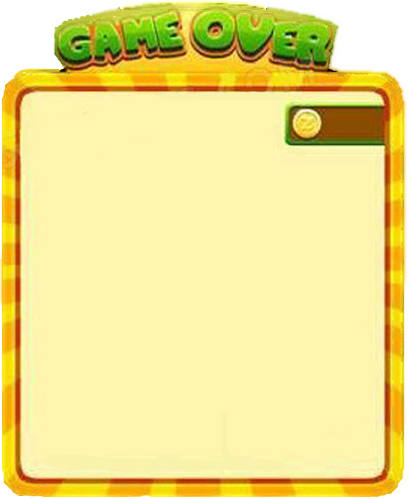
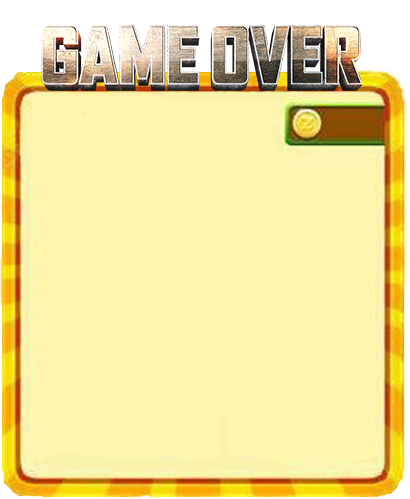
修改小遊戲由楊婷婷觀察

Changed region(s): [[0.0585, 0.0, 0.878, 0.1804]]

diff --git a/src/06_game.html b/src/06_game.html
@@ -19,17 +19,17 @@
 		 <!-- 如果來不及的話用jquery Ajax收發資料帶入角色資料，和timer資料 -->
 		<link rel="stylesheet" href="./css/game.css">
 		<link rel="stylesheet" href="./css/flex.css">
-		<script src="https://cdnjs.cloudflare.com/ajax/libs/vue/2.6.12/vue.js"></script>
+		<!-- <script src="https://cdnjs.cloudflare.com/ajax/libs/vue/2.6.12/vue.js"></script> -->
 		<script src="../node_modules/jquery/dist/jquery.min.js"></script>
 	</head>
 	<body>
 		@@include('layout/nav.html')
 		<div id="title" class="banner"><h1 class="banner-1st-title">小遊戲-茶園保衛戰</h1></div>
-		<div class="w100 flex j_c x-auto">
+		<div class="w100 flex j_c ">
 		<div id="map">
 			<div class="tea_en flex a_c j_c">
-				<section >
-					<article class="flex">
+				<section style="overflow-x: hidden;">
+					<article class="flex" >
 					<div class="teatxt">
 						<h2>目錄</h2>
 						<p>概要：茶文化、茶葉知識、茶具知識、品茶用水、茶藝基礎、科學飲茶</p>
@@ -57,9 +57,7 @@
 			<span style="writing-mode: vertical-lr;
 			font-size: 20px;position:relative;top: 55%;left: 20%;color: #FFF;text-shadow: 0 0 3.2em #87E;">遊戲</span>
 			</div>
-						<div id="teatxt-bar2" style="height: 100px;
-    		width: 50px;    position: relative;
-    		top: 30px;"></div>
+						<div id="teatxt-bar2" style="height: 100px;width: 50px;position: relative;top: 30px;"></div>
 					</div>
 					</article>					
 				</section>
@@ -75,11 +73,9 @@
     	top:120px;">
 		<p style="font-size:28px;color:red;">蟲子跑進了茶園</p>
 <img src="./images/game/200_d.gif" alt="" style="width: 300px;">
-<img src="./images/game/tea_2.png" alt="" style="width: 300px;position: relative;
-    left: 12%;
-    top: -36px;">
+
 	</div>		
-		<div id="return" class="flex a_c"><img src="./images/game/return.png" alt="再玩一次"><span style="font-size:28px;color:red;">再玩一次</span></div>
+		<div id="replay" class="flex a_c" style="cursor: pointer;"><img src="./images/game/return.png" alt="再玩一次" ><span style="font-size:28px;color:red;">再玩一次</span></div>
 </article>
 </div>
 <div class="gamewin">
@@ -99,13 +95,20 @@ font-size: 28px;line-height: 1.5;
 </div>
 <div class="overlay -on">
 	<article>
-			<img src="./images/game/title.png" class="title">
+				<img src="./images/game/game_role.png" class="title">
 			<div style="color:#FFF;padding-left:10px;font-size:18px;border:solid 1px #FFF">
 			<p>遊戲說明：</p>
-			<p>上方控制面板：喝茶休息可以暫停，茶百科可以瀏覽茶的知識、計分板顯示分數。</p>
-			<p>左下方：守衛角色可放置到四條道路上，會發射子彈。</p>
-			<p>右方：有蟲子向進攻，千萬不要放蟲子到茶園裡。</p>
+			<div>開場會有落下茶葉，玩家可以點擊接住茶葉<img src="./images/game/giphy.webp" alt="" style="width:40px;height:40px">
+			</div>
+			<div class="flex">				
+				<span>落下的茶葉收到袋子裡→</span>
+				<img src="./images/game/62720191121071129866.png" alt="">
+				<span>用來購買守衛</span>
+				<img src="./images/game/4.gif" alt="" style="width:40px;height:40px;">
+			</div>
 			<p>茶能量：守衛放置道路上需要能量，能量不足可是請不動守衛的呦。</p>
+			<p>上方控制面板：暫停、繼續，茶百科可以瀏覽茶的知識、計分板顯示分數。</p>
+			<p>右方：有蟲子向進攻，千萬不要放蟲子到茶園裡。</p>			
 			</div>			
 			<div class="button2 flex a_c j_c" id='go' style="appearance: none;"><span style="color:#FFF;" id="gotxt">開始驅蟲</span></div>
 			
@@ -176,7 +179,6 @@ font-size: 28px;line-height: 1.5;
 					time_b_,
 					bb__,
 					zom_,zarr_
-					
 				},
 				motheds:{
 					clearStyle() {

diff --git a/src/sass/game.scss b/src/sass/game.scss
@@ -43,7 +43,7 @@ top:-40px;
 .road{
   position: absolute;
   z-index: 2;
-left:calc(-310px + 40%);
+  left:calc(-310px + 40%);
   background: url(../images/game/8.png);
   width: 755px;
   height: 110px;
@@ -68,7 +68,7 @@ left:calc(-310px + 40%);
 }
 .road .createWorm {
   position: absolute;
-height: 90px;
+  height: 60px;
   width: 66px;
   top: 0px;
   bottom: 0px;
@@ -134,6 +134,13 @@ position: absolute;
 top: 300px;
 left: 50%;
 transform: translate(-50%, -50%);
+img.title{
+	position:relative;
+top:-20px;
+left: calc(94% - 417px);	
+width: 417px;
+height:128px;
+}
 }
 div.gameover,div.gamewin{
   position: fixed;
@@ -260,7 +267,7 @@ div.gamewin>article{
 			/*疆屍*/
 			#road .createWorm {
 				position: absolute;
-				height: 90px;
+				height: 50px;
 				width: 66px;
 				top: 0px;
 				bottom: 0px;
@@ -297,18 +304,18 @@ div.gamewin>article{
         	position: absolute;
         	width:27px;
         	height:27px;
-				padding: 0;
-				right: 0;
-				top: -12px;
-				border-radius: 50%;
-				background: gold;
+			padding: 0;
+			right: 0;
+			top: -12px;
+			border-radius: 50%;
+			background: gold;
 			}
 			#props li img {
 				border: 2px solid gray;
 				height: 100%;
 				width: 100%;
 				cursor: pointer;
-				background: gainsboro;
+				background: yellowgreen;
 			}
 			#props li img.action {
 				border: 3px solid green;
@@ -331,12 +338,16 @@ div.gamewin>article{
 		// height:70px;
 		cursor: pointer;
 	  }
+	  img[src="./images/game/62720191121071129866.png"]{
+		  width:40px;
+		  height:40px;
+		}
 	  .star-back{
 		//   	width: 70px;
 		// height:70px;
 				background: url("../images/game/62720191121071129866.png");
 				background-size: contain;
-				background-repeat: no-repeat;			
+				background-repeat: no-repeat;		
 	  }
 			/*星星數量*/
 			#star-number {
@@ -380,7 +391,7 @@ div.gamewin>article{
 				height: 70px;
 				z-index: 300;
 			}
-			#return{
+			#replay{
 				position:absolute;
 				left:30px;
 				bottom:25px;

diff --git a/src/js/game (1).js b/src/js/game (1).js
@@ -37,7 +37,7 @@ var star = 25,
   init_walk,
   init_Bullet,
   init_shot;
-var sp_,
+  var sp_,
   time_b_,
   bb__,
   zom_,zarr_;
@@ -97,7 +97,7 @@ function setStar(n) {
 function createworm(damage, defense, hp, speed) {
   var img = document.createElement("img");
   img.className = 'createWorm';
-  img.src = '../dist/images/game/worm.gif';
+  img.src = '../dist/images/game/worm-preview.gif';
   img.dataset.damage = damage;
   img.dataset.defense = defense;
   img.dataset.speed = speed;
@@ -296,9 +296,6 @@ document.getElementById('go').onclick=function () {
       $("div.overlay").removeClass("-on -opacity-zero");
     }, 1000); // 關閉 Modal
   }
-
-  
-
 $('div.tea_ency').on('click', function () {
   $('.tea_en').addClass('-on');
 });
@@ -316,7 +313,7 @@ $('#checkbox').on('click', function(){
       gamestop();
   tween.pause();
   } else {
-          sp_= setInterval("sp()", starTimer);//降落茶葉
+      sp_= setInterval("sp()", starTimer);//降落茶葉
   		time_b_=	setInterval("time_b()", 9000);//產生子彈
       bb__=setInterval("bb_()", 20);//移動子彈
       zom_=setInterval("zom()", 60);//生蟲
@@ -325,7 +322,7 @@ $('#checkbox').on('click', function(){
       init_Bullet=setInterval("Bullet_init()",9000);//生子彈
       init_shot=setInterval("shot()",20);//移動子彈
       init_worm=setInterval("wrom_init()",10000);//生蟲
-    init_walk = setInterval("walk()", 60);//蟲子走路
+      init_walk = setInterval("walk()", 60);//蟲子走路
   }
 });
 function gamestop() {
@@ -347,9 +344,12 @@ function gamestop() {
   leaf=[];
   leaf_i=-1;
   tween.pause();
-  // tm.pause();
+
 }
 // 開啟 Modal 彈跳視窗
+document.getElementById('replay').onclick = function () {
+  location.reload();
+};
 
 
 //時間到開啟通關燈箱

diff --git a/src/js/game2.js b/src/js/game2.js
@@ -120,12 +120,11 @@ function shot(){
                 }
           }
   }
-
 }
 function addworm(damage, defense, hp, speed,o){
   var img = document.createElement("img");
   img.className = 'createWorm';
-  img.src = '../dist/images/game/worm.gif';
+  img.src = '../dist/images/game/worm-preview.gif';
   img.dataset.damage = damage;
   img.dataset.defense = defense;
   img.dataset.speed = speed;
@@ -142,16 +141,13 @@ function wrom_init(){
   // for(var k=0;k<3;k++){
   //     }
 }
-
 function walk(){//蟲子走路
   for(let k=0;k<3;k++){
     for(var i = 0,th=path.wormArr[k].length; i < th; i++) {
     path.wormArr[k][i].style.left = path.wormArr[k][i].offsetLeft - parseInt(path.wormArr[k][i].dataset.speed) + "px";
       if (path.wormArr[k][i].offsetLeft + path.wormArr[k][i].offsetWidth < 0) {
         document.querySelector("div.gameover").classList.add("-on");
-
   gamestop();
-
     }
     for(var j = 0; j < path.plantArr[k].length; j++) {
       //蟲子和植物碰上了
